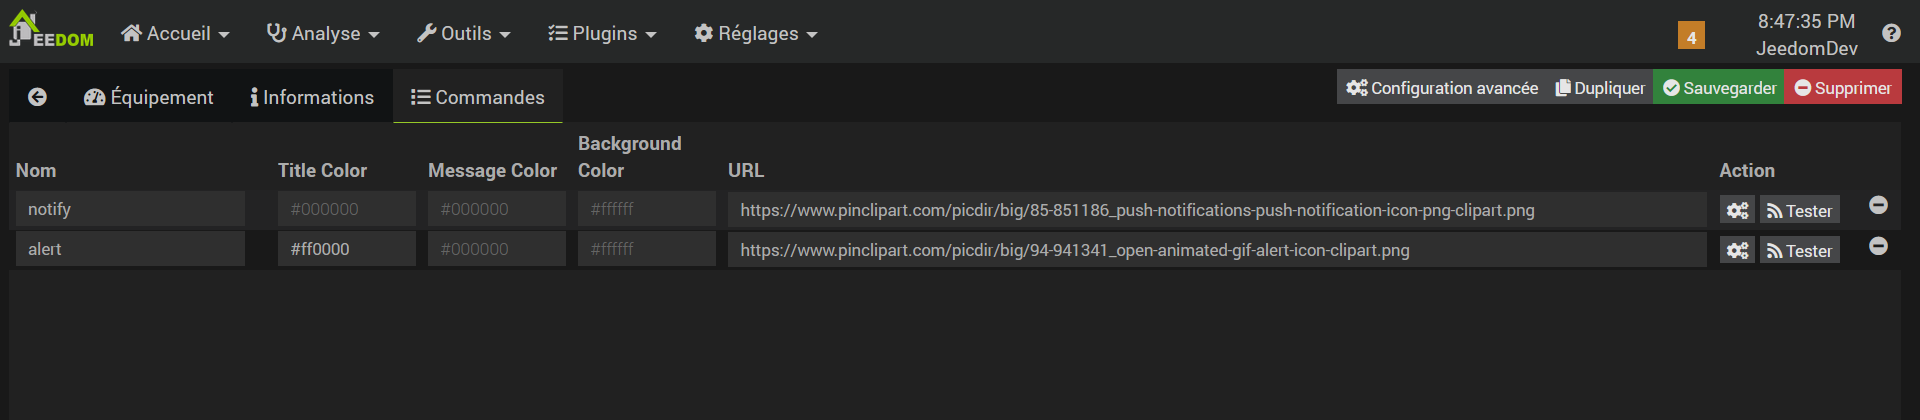
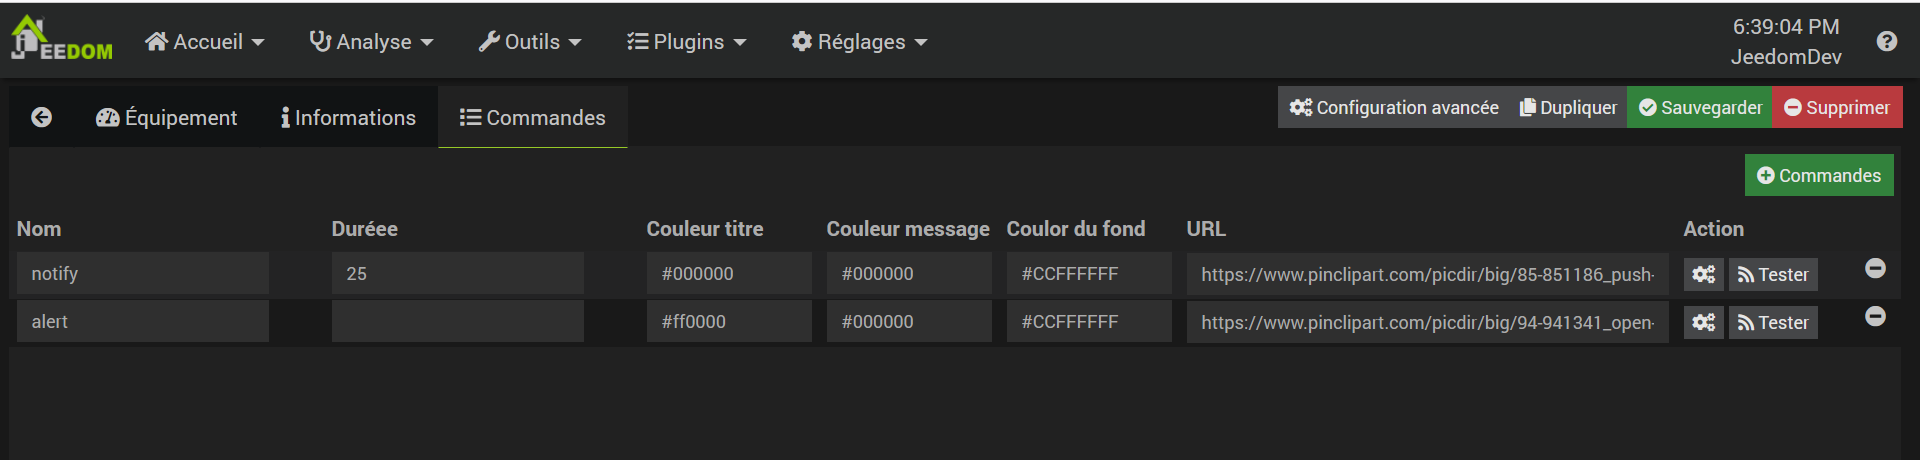
NEW : Durée personalisable sur la commande

diff --git a/desktop/js/pipup.js b/desktop/js/pipup.js
@@ -54,6 +54,12 @@ function addCmdToTable(_cmd) {
 
   tr += '<td>';
   tr += '<div class="input-group">';
+  tr += '<input class="cmdAttr form-control input-sm" data-l1key="configuration" data-l2key="duration">';
+  tr += '</div>';
+  tr += '</td>';
+
+  tr += '<td>';
+  tr += '<div class="input-group">';
   tr += '<input class="cmdAttr form-control input-sm" placeholder="#000000" data-l1key="configuration" data-l2key="titleColor">';
   tr += '</div>';
   tr += '</td>';

diff --git a/desktop/php/pipup.php b/desktop/php/pipup.php
@@ -154,7 +154,7 @@ $eqLogics = eqLogic::byType($plugin->getId());
                                 </div>
 
                                 <div class="form-group">
-                                    <label class="col-sm-3 control-label">{{Duration (secondes)}}</label>
+                                    <label class="col-sm-3 control-label">{{Durée}}<sub>(s)</sub></label>
                                     <div class="col-sm-2">
                                         <div class="input-group">
                                             <input type="number" class="eqLogicAttr form-control tooltips" 
@@ -225,9 +225,10 @@ $eqLogics = eqLogic::byType($plugin->getId());
                         <thead>
                             <tr>
                                 <th style="width:210px;">{{Nom}}</th>
-                                <th style="width:120px;">{{Title Color}}</th>
-                                <th style="width:120px;">{{Message Color}}</th>
-                                <th style="width:120px;">{{Background Color}}</th>
+                                <th style="width:210px;">{{Duréee}}</th>
+                                <th style="width:120px;">{{Couleur titre}}</th>
+                                <th style="width:120px;">{{Couleur message}}</th>
+                                <th style="width:120px;">{{Coulor du fond}}</th>
                                 <th>{{URL}}</th>
                                 <th style="width:150px;">{{Action}}</th>
                             </tr>

diff --git a/core/class/pipup.class.php b/core/class/pipup.class.php
@@ -177,7 +177,7 @@ class pipupCmd extends cmd
         }
         unset($iptv);
 
-        // IP TV
+        // duration
         log::add('pipup', 'debug', ' Récupération duration', __FILE__);
         $duration = $eqlogic->getConfiguration('duration');
         if ($duration != '') {
@@ -288,6 +288,13 @@ class pipupCmd extends cmd
         $tmp->backgroundColor = $cmd->getConfiguration('backgroundColor');
         if (empty($tmp->backgroundColor)) {
             $tmp->backgroundColor = "#ffffff";
+        }
+
+        $duration = $cmd->getConfiguration('duration');
+        if ($duration != '') {
+            if (filter_var($duration, FILTER_VALIDATE_INT)) {
+                $tmp->duration = $duration;
+            }
         }
 
         if (!empty($cmd->getConfiguration('url'))) {

diff --git a/docs/fr_FR/index.md b/docs/fr_FR/index.md
@@ -50,7 +50,7 @@ Cet onglet permet de définir l'équipement :
 ![Général](../images/Onglet_2.png)
 
 - IP TV : IP de l'équipement où afficher les notifications
-- Duration : Durée en seconde pendant laquelle la notification s'affiche. 30 secondes par défaut.
+- Durée : Durée en seconde pendant laquelle la notification s'affiche. 30 secondes par défaut.
 - Position : Emplacement où s'afficheront les notifications. En bas à droite par défaut.
 - Taille du titre : 20 par défaut
 - Taille du message : 14 par défaut
@@ -67,9 +67,10 @@ Commandes créées pour voir des informations :
 - alert : affiche une notification de type Alert
 
 Les commandes sont personnalisables :
-- Title color : couleur du titre
-- Message color : couleur du texte du message
-- Background color : couleur de fond
+- Durée : durée en seconde. optionel, peux surcharger la valeur globale précédemment renseignée
+- Couleur titre : couleur du titre
+- Couleur message : couleur du texte du message
+- Couleur du fond : couleur de fond
 - URL : URL de l'image. Si vide, il n'y a pas d'image affichée.
   Exemple :
       https://www.pinclipart.com/picdir/big/85-851186_push-notifications-push-notification-icon-png-clipart.png

diff --git a/docs/fr_FR/changelog.md b/docs/fr_FR/changelog.md
@@ -4,7 +4,11 @@
 >
 >Pour rappel s'il n'y a pas d'information sur la mise à jour, c'est que celle-ci concerne uniquement de la mise à jour de documentation, de traduction ou de texte.
 
-# 04/05/2023
+# 04/05/2023 - BETA
+
+- NEW : Durée personalisable sur la commande
+
+# 04/05/2023 - STABLE
 
 - MAJ de la documentation pour la gestion de la transparence, choisir une couleur au format HEX, et l'image sans texte
 
